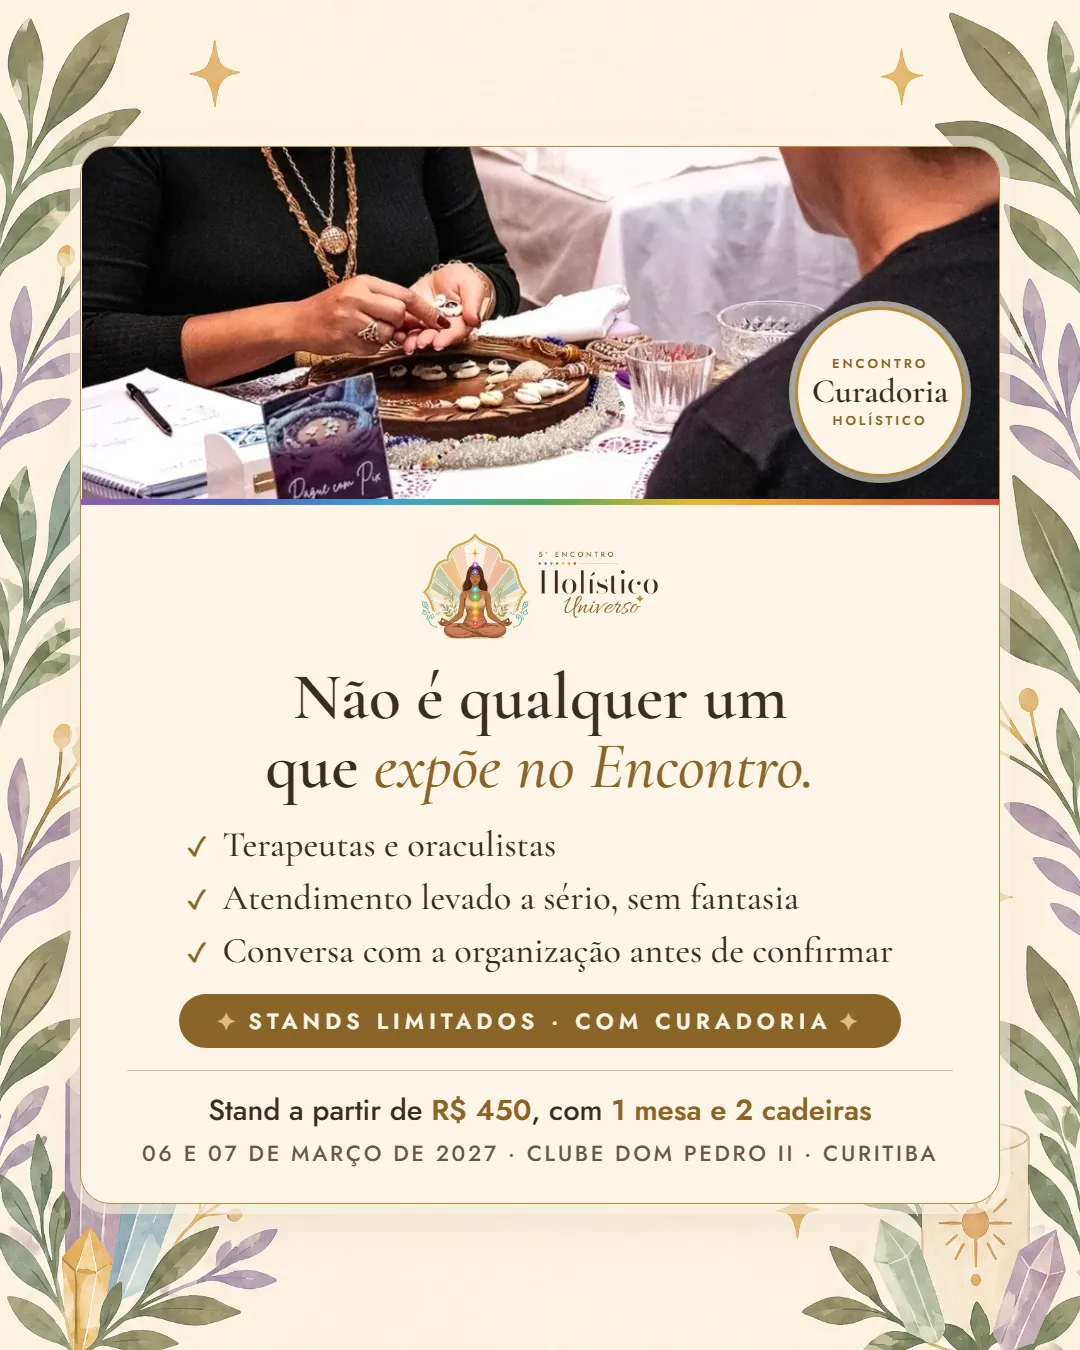
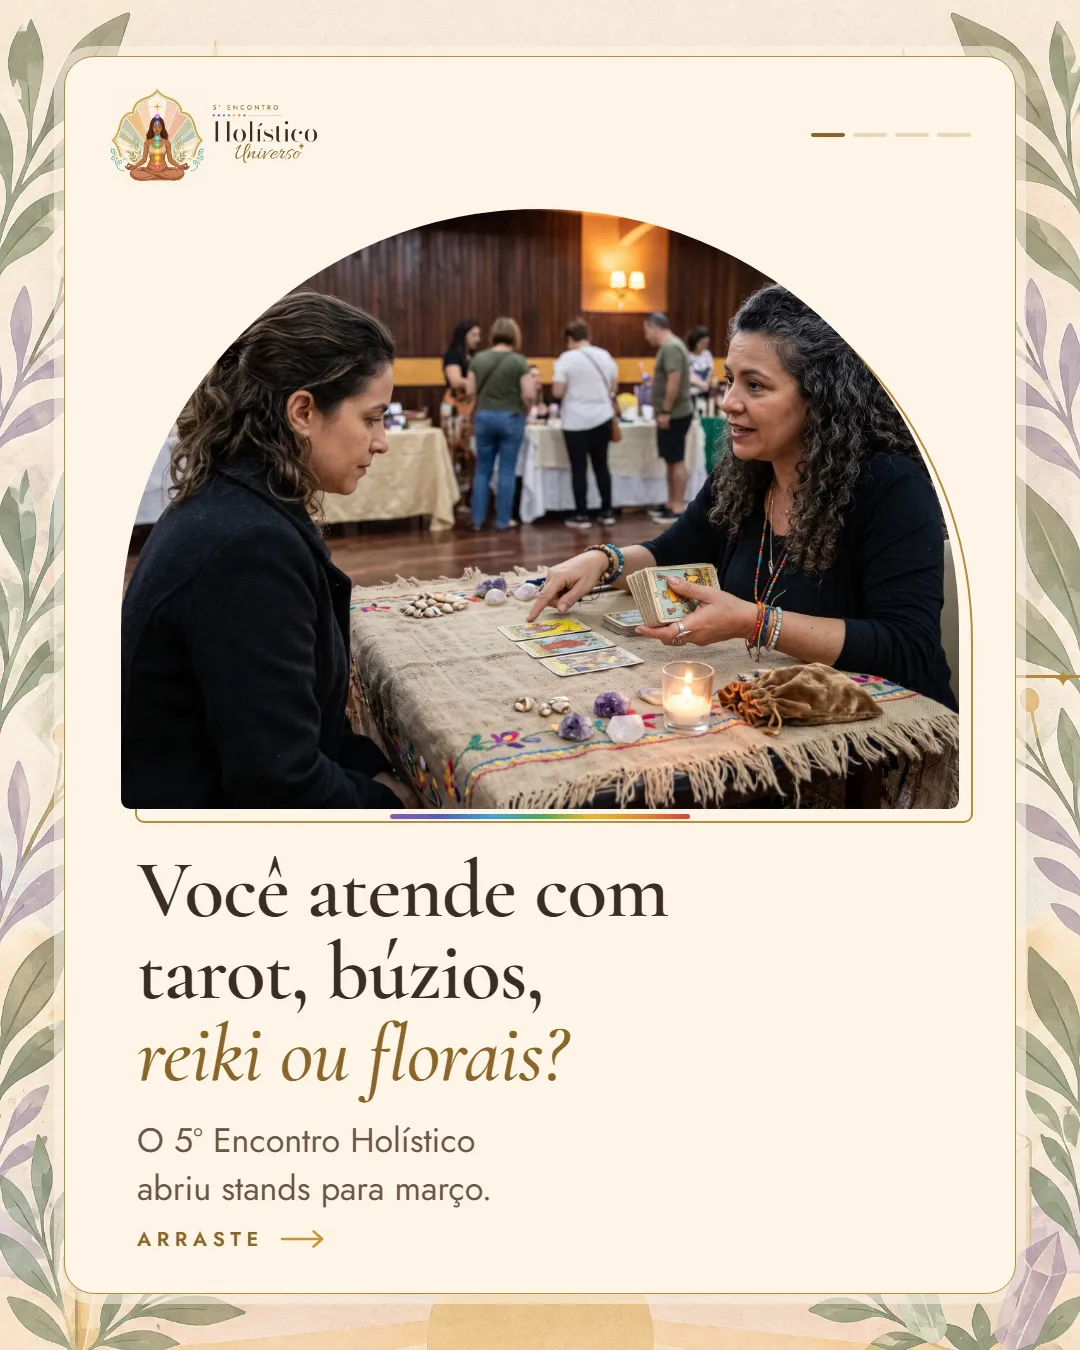
Excellence Encontro: carrossel no lugar da curadoria na pagina de aprovacao (16/11)

diff --git a/public/excellence/2026-11-16-anuncios-expositor/dados.js b/public/excellence/2026-11-16-anuncios-expositor/dados.js
@@ -85,18 +85,29 @@ window.DADOS = {
     },
     {
      "id": "1-3",
-     "titulo": "Não é qualquer um que expõe no Encontro",
-     "etiqueta": "Curadoria",
+     "titulo": "Você atende com tarot, búzios, reiki ou florais?",
+     "etiqueta": "Carrossel",
      "ordem": "3 de 4",
+     "nota": "Novo, no lugar do anúncio de curadoria. São 4 cards: arraste a imagem pro lado pra ver a sequência.",
      "slides": [
       {
        "src": "img/1-3-1.webp",
-       "label": "Feed",
+       "label": "Card 1",
        "ia": false
       },
       {
        "src": "img/1-3-2.webp",
-       "label": "Stories",
+       "label": "Card 2",
+       "ia": false
+      },
+      {
+       "src": "img/1-3-3.webp",
+       "label": "Card 3",
+       "ia": false
+      },
+      {
+       "src": "img/1-3-4.webp",
+       "label": "Card 4",
        "ia": false
       }
      ],
@@ -106,11 +117,7 @@ window.DADOS = {
        "partes": [
         {
          "rotulo": "Texto principal",
-         "texto": "O Encontro Holístico é feito de gente que atende com cuidado.\n\nDois dias reunindo terapeutas e oraculistas, com um público que vem procurando consulta, terapia e acolhimento.\n\nQuer estar com a gente? Chame no WhatsApp, conte o seu trabalho e a gente te explica como funciona o stand.\n\n06 e 07 de março de 2027, Clube Dom Pedro II, Curitiba. Stand a partir de R$ 450, com 1 mesa e 2 cadeiras."
-        },
-        {
-         "rotulo": "Título",
-         "texto": "Curadoria aberta para o Encontro"
+         "texto": "Você atende com tarot, búzios, reiki, florais ou constelação?\n\nNo 5º Encontro Holístico são dois dias de gente passando na frente do seu stand, procurando consulta e terapia. Gente que dificilmente ia te achar pela internet.\n\nE quem gosta do atendimento leva o seu contato e volta depois do evento. Todo expositor confirmado ainda ganha post com o seu @ no perfil do Encontro, que tem 5,3 mil seguidores.\n\nChame no WhatsApp, conte o que você atende e a gente te explica como funciona o stand.\n\n06 e 07 de março de 2027, Clube Dom Pedro II, Curitiba. Stand a partir de R$ 450, com 1 mesa e 2 cadeiras."
         },
         {
          "rotulo": "Botão",
